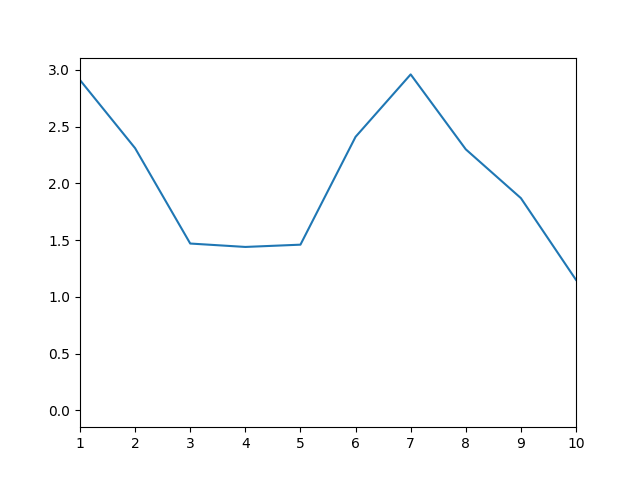
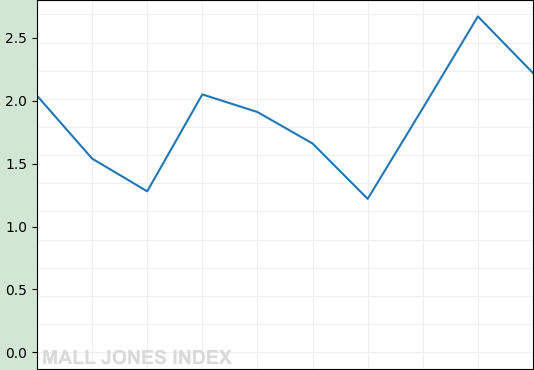
Added a background to the graph.

diff --git a/main.py b/main.py
@@ -12,6 +12,7 @@ Do something with the quiz statistics on the website
 Start looking for website domains
 Get this on a bot list website
 Make $give
+Fix the website (this should help: https://replit.com/talk/ask/Matplotlib-causing-Flask-to-not-run/126931)
 '''
 import ast
 import discord
@@ -126,7 +127,15 @@ def stocktick():
         plt.clf()
         plt.plot([0, 1, 2, 3, 4, 5, 6, 7, 8, 9, 10], graphlist)
         plt.xlim(1, 10)
-        plt.savefig('graph.png')
+        plt.savefig('graphline.png', transparent=True)
+        #this was way harder than it should have been
+        bgimg = Image.open("graphbg.png")
+        graphimg = Image.open("graphline.png")
+        graphimg = graphimg.crop((43, 58, 577, 428))
+        final2 = Image.new("RGBA", bgimg.size)
+        final2 = Image.alpha_composite(final2, bgimg.convert('RGBA'))
+        final2 = Image.alpha_composite(final2, graphimg.convert('RGBA'))
+        final2.save("graph.png")
 stocktick()
 
 client = discord.Client()
@@ -665,7 +674,7 @@ async def on_message(message):
           else:
             stockembed = discord.Embed(title="Stock Market", description=("Profits: ${0:.2f}\nBlartcoins: " + str(usercoinbalance)).format(round(usermoneybalance, 2)), color=0x00ff00)
           if stockpercent < 0:
-            stockembed.add_field(name="Blartcoin Value", value=("📉 {1:.2f}%🔽\nValue: -${0:.2f}").format(round(price, 2), stockpercent * 100), inline=False)
+            stockembed.add_field(name="Blartcoin Value", value=("📉 {1:.2f}%🔽\nValue: ${0:.2f}").format(round(price, 2), stockpercent * 100), inline=False)
           else:
             stockembed.add_field(name="Blartcoin Value", value=("📈 {1:.2f}%🔼\nValue: ${0:.2f}").format(round(price, 2), stockpercent * 100), inline=False)
           stockembed.set_footer(text="One tick happens every 60 seconds.\nThis message will remain live for 10 minutes after being sent.\nInformation provided by the Mall Jones Index.")
